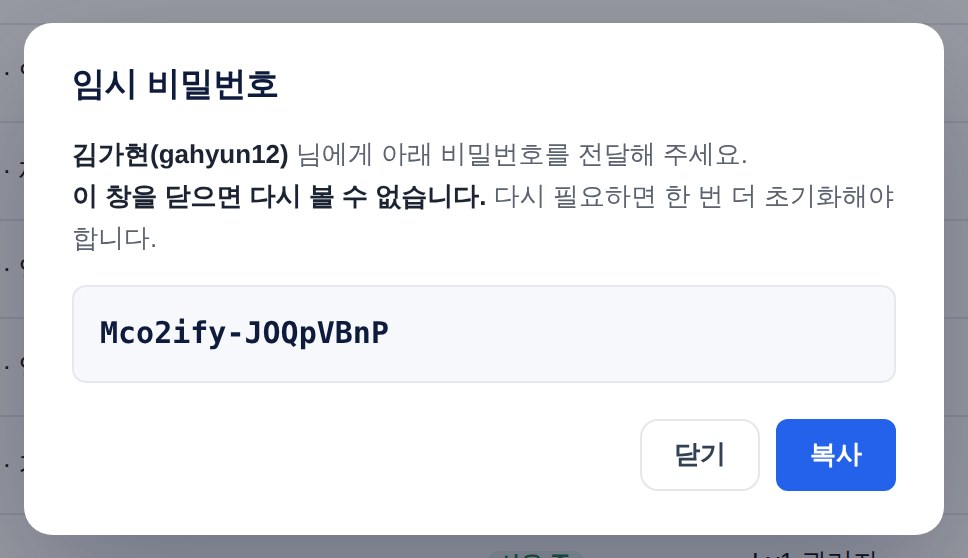
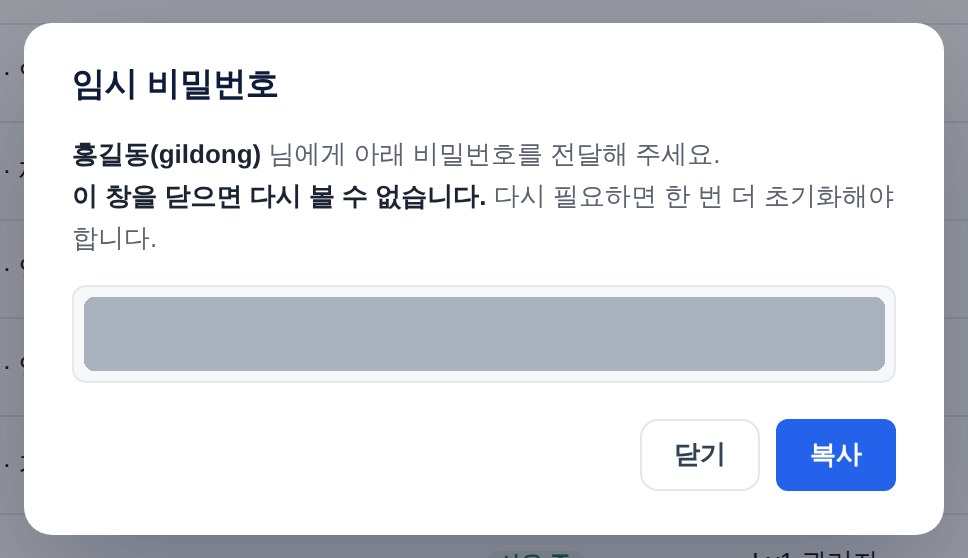
2-4 그림을 다시 찍는다 — **값만 덮고 칸은 남긴다**
시험 서버에서 뽑힌 임시 비밀번호가 매뉴얼 그림에 그대로 찍혀 있었다.

**칸까지 지우지 않았다.** 지우면 「어디에 뜨는지」가 안 보이고, 값을 남기면 매뉴얼이
남의 비밀번호를 들고 다니게 된다. 그래서 칸 테두리는 그대로 두고 **안쪽 글자만** 덮었다.
덮는 자리는 **화면에서 재서** 잡았다(값이 든 칸의 좌표를 브라우저에 물어봤다) —
눈대중으로 사각형을 그리면 다음에 글꼴이 조금만 바뀌어도 글자 끝이 비어져 나온다.

**가렸다는 말은 글에 적었다.** 그림에 글자를 박지 않는다는 규칙 그대로다.
실물 캡처라고 해 놓고 말없이 덮어 두면, 읽는 사람은 **실제 화면에도 회색 칸이 뜨는 줄** 안다.

지킴이(+2): 가렸다고 말하는 걸음이 **2-4 하나뿐**인지 — 늘어나면 「어디까지가 실물인가」가
흐려진다 — 그리고 무엇을 어떻게 가렸는지가 파일 머리에 적혀 있는지.
일부러 3가지로 깨 봤고 **3가지 다 걸렸다**(가렸다는 말 지우기 · 다른 걸음에도 적기 ·
파일 머리 설명 지우기).

tsc 0 · 전체 2,851 passed / 0 failed.

Claude-Session: https://claude.ai/code/session_01VsbJpmKbXKQsCL1XEGQQjd

Changed region(s): [[0.062, 0.5179, 0.9298, 0.6703], [0.186, 0.2437, 0.7748, 0.3047], [0.062, 0.2437, 0.155, 0.3047]]

diff --git a/src/builder/manualAdmin.ts b/src/builder/manualAdmin.ts
@@ -14,6 +14,9 @@
 //   · **그림은 전부 실물 캡처다.** 시험 서버에서 관리자로 실제로 눌러 가며 찍었다.
 //     2026-09-18 에 관리 화면(머리줄 가운데 · 검색줄 · 아래 여백)을 고치면서 **전부 다시 찍었다** —
 //     화면이 바뀌었는데 그림이 옛날 것이면 그림이 거짓말을 한다.
+//   · **가린 곳은 딱 한 군데다**(2-4 의 임시 비밀번호). 그것도 **칸은 남기고 값만** 덮었다 —
+//     칸까지 지우면 「어디에 뜨는지」가 안 보이고, 값을 남기면 매뉴얼이 남의 비밀번호를
+//     들고 다니게 된다. 가렸다는 말은 **글에 적는다**(그림에 글자를 박지 않는다는 규칙 그대로).
 import type { MakeChapter } from './manualMake'
 
 export const ADMIN_DIR = '/manual/admin/'
@@ -45,6 +48,7 @@ export const ADMIN_CHAPTERS: MakeChapter[] = [
       tip: "<b>승인 전인 사람</b>에게는 안 됩니다 — 가입을 먼저 승인해야 합니다. 본인 것도 여기서는 안 됩니다(2-5 참고)." },
     { n: "2-4", t: "임시 비밀번호는 한 번만 보입니다", img: "a07_temp_pw.jpg",
       body: "임시 비밀번호가 <b>무작위로</b> 만들어져 창에 뜹니다. <b>복사</b>를 눌러 본인에게 전달하세요. 그 사람은 다음 로그인 때 <b>반드시 바꿔야</b> 합니다.",
+      tip: "<b>그림에서는 값을 덮어 뒀습니다.</b> 실제로는 회색 칸 자리에 글자가 그대로 보입니다 — 매뉴얼에 남의 비밀번호를 실어 둘 수는 없어서요.",
       warn: "<b>이 창을 닫으면 다시 못 봅니다.</b> 놓쳤으면 한 번 더 초기화하는 수밖에 없습니다. 관리자가 값을 고를 수 없게 한 것은 일부러입니다 — <b>아는 사람이 없어야</b> 안전합니다." },
     { n: "2-5", t: "관리자 본인이 비밀번호를 잊으면", img: "a22_two_admins.jpg",
       body: "<b>① 다른 관리자가 풀어 줍니다.</b> 같은 자리에서 그 줄의 「비밀번호 초기화」를 누르면 됩니다. 그래서 <b>관리자는 둘 이상</b> 두세요 — 이 그림에는 Lv1 관리자가 둘 있습니다.<br><b>② 내가 새 값을 바로 정합니다.</b> 내 이름 ▸ 「비밀번호 변경」에서 <b>「지금 비밀번호가 기억나지 않습니다」</b>를 누르면, 지금 값을 묻지 않고 <b>새 값을 직접</b> 정합니다(관리자만).",
